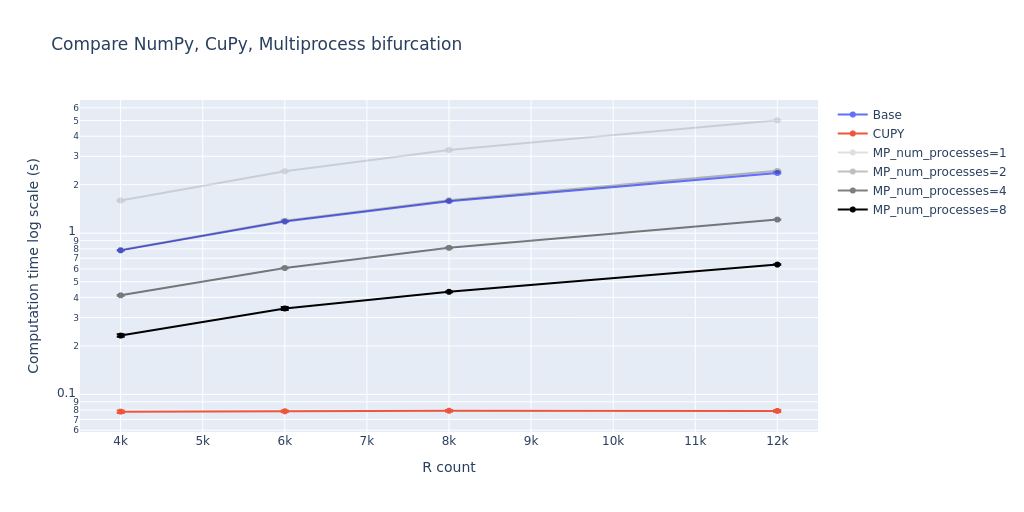
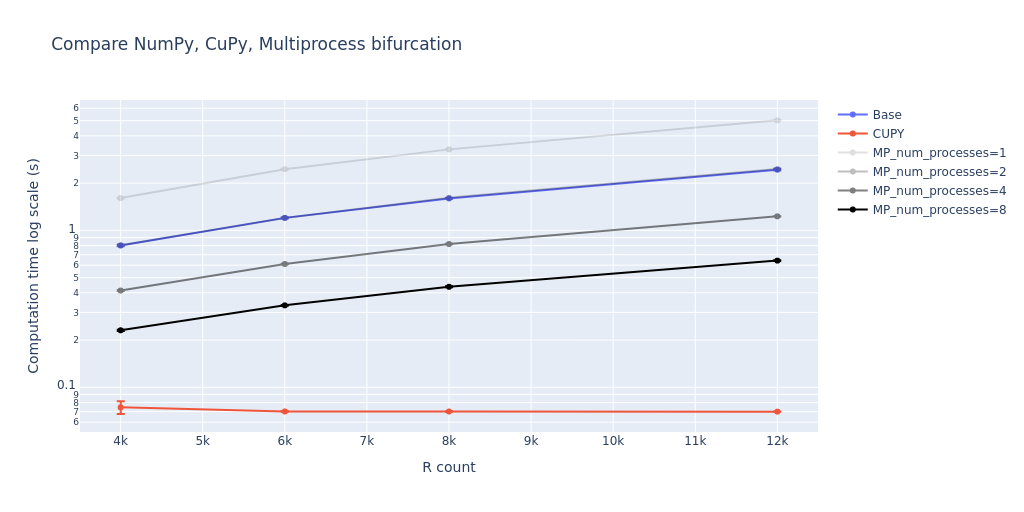
-- hw9

diff --git a/hw9/main.py b/hw9/main.py
@@ -27,12 +27,13 @@ def logistic_map_cp(x, r):
 def get_bifurcation_data_cp(x0, r_values, n, m):
     total_x = []
     total_r = []
-    res = r_values.copy()
+    res = cp.full_like(r_values, x0)
+
     for i in range(n):
-        res = logistic_map_cp(x0, res)
+        res = logistic_map_cp(res, r_values)
 
     for i in range(m):
-        res = logistic_map_cp(x0, res)
+        res = logistic_map_cp(res, r_values)
         total_x.append(res.copy())
         total_r.append(r_values.copy())
     return cp.concatenate(total_x), cp.concatenate(total_r)
@@ -193,5 +194,6 @@ if __name__ == '__main__':
     os.makedirs(BASE_OUT_FOLDER, exist_ok=True)
     measure_time()
     measure_bifurcation()
+
 
 
